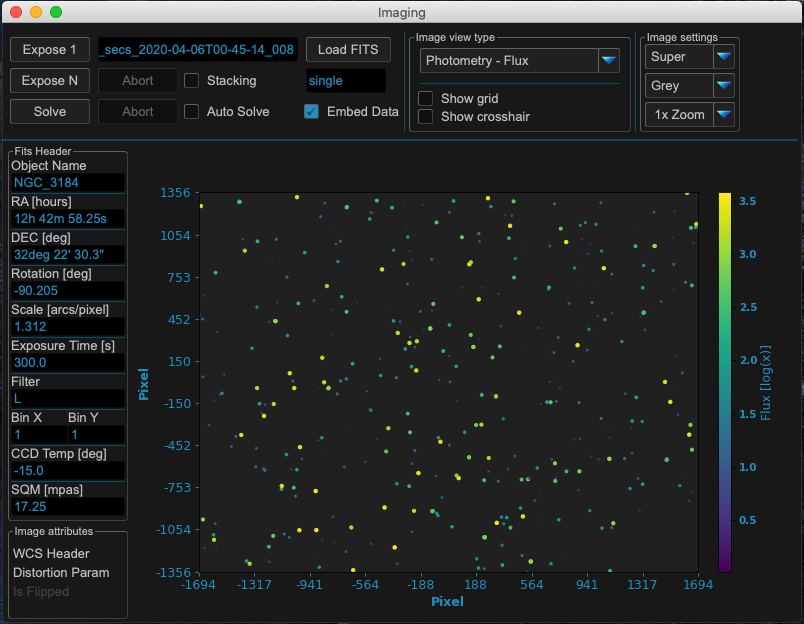
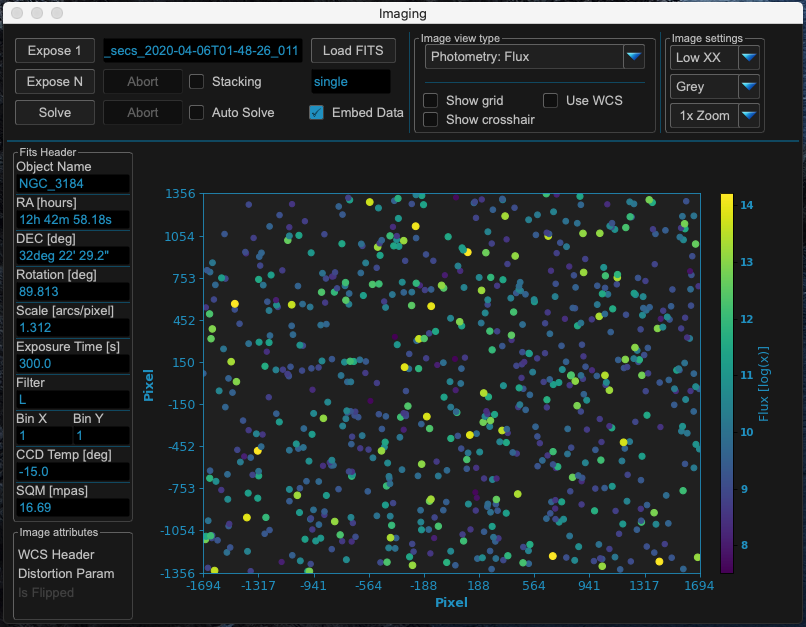
generating an action for distributen delivery

diff --git a/docs/source/imaging/imaging_window.rst b/docs/source/imaging/imaging_window.rst
@@ -53,18 +53,23 @@ For the image you have different options to alter the main view of the image:
 
     *   - Drop down entry
         - Explanation
-    *   - Image
-        - standard visualization of the image in greyscale. MW4 does not support colors
-    *   - Image & WCS coordinates
-        - if distortion parameters are included, MW4 will show the RA / DEC coordinates
-    *   - Image & detected sources
-        - an overlay of the image with the extracted sources (stars) as circles
-    *   - Photometry - Sharpness
-        - sextractor based algorithm: value for referencing the sharpness (s.below)
-    *   - Photometry - Roundness
-        - sextractor based algorithm: value for roundness of the sources
-    *   - Photometry - Flux
-        - sextractor based algorithm: value for flux of the sources
+    *   - Image Raw
+        - Standard visualization of the image in greyscale. MW4 does not support
+          colors
+    *   - Image with Sources
+        - An overlay of the image with the extracted sources (stars) as circles
+    *   - Photometry: HFD Value
+        - SEP: 50 top Sources with HFD values
+    *   - Photometry: Background level
+        - SEP: Image of the background level
+    *   - Photometry: Background noise
+        - SEP: Image of the background oise level
+    *   - Photometry: Flux
+        - SEP: Value for flux of the detected sources
+
+If distortion parameters are included, you could check "UseWCS" and MW4 will show
+the RA / DEC coordinates for the first threed image view options.
+
 
 Some examples for the windows
 -----------------------------
@@ -81,15 +86,21 @@ View Image with sources:
     :align: center
     :scale: 71%
 
-View image with photometry sharpness
+View image with HFD values
 
-.. image:: image/show_sharpness.png
+.. image:: image/show_hfd.png
     :align: center
     :scale: 71%
 
-View image with photometry roundness
+View image with background level
 
-.. image:: image/show_roundness.png
+.. image:: image/show_bk.png
+    :align: center
+    :scale: 71%
+
+View image with background noise
+
+.. image:: image/show_bk_noise.png
     :align: center
     :scale: 71%
 

diff --git a/docs/source/explain/windows.rst b/docs/source/explain/windows.rst
@@ -225,6 +225,6 @@ This should help in finding problems in your setup.
 
 .. image:: image/window_analyse.png
     :align: center
-    :scale: 71%
+    :scale: 25%
 
 There is a video on youtube with some explanations: https://youtu.be/6jiCOqKgzZY
